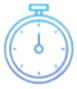
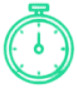
fix a lot styles and colors

diff --git a/src/scss/contacts.scss b/src/scss/contacts.scss
@@ -1,113 +1,144 @@
-    .mainpage__contacts-bgwrapper {
-        background-image: linear-gradient(to bottom, #282828, rgb(26, 43, 39))
+.mainpage__contacts-bgwrapper {
+    background-image: linear-gradient(to bottom, #282828, rgb(26, 43, 39));
+}
+
+.mainpage__contacts-title {
+    text-align: center;
+    margin: 0px auto;
+    color: $green;
+    font-family: $font-family;
+    font-size: 42px;
+    font-weight: 600;
+    padding: 20px;
+}
+
+.mainpage__contacts {
+    width: 100%;
+    max-width: 1400px;
+    margin: 0 auto;
+    margin-bottom: 100px;
+    display: flex;
+    flex-direction: row;
+    flex-wrap: wrap;
+    justify-content: space-between;
+}
+
+.mainpage__contacts-text {
+    color: white;
+    font-family: $font-family;
+    font-size: 18px;
+    font-weight: 200;
+}
+
+.mainpage__contacts-text-title {
+    color: white;
+    font-family: $font-family;
+    font-size: 48px;
+    font-weight: 200;
+    text-align: left;
+}
+
+.mainpage__contacts-text-subtitle {
+    color: white;
+    font-family: $font-family;
+    font-size: 36px;
+    font-weight: 200;
+}
+
+.mainpage__contacts-inputs {
+    & input {
+        display: block;
+        margin-top: 30px;
     }
-    
-    .mainpage__contacts-title {
-        text-align: center;
-        margin: 0px auto;
-        color: $green;
-        font-family: $font-family;
-        font-size: 36px;
-        font-weight: 300;
-        padding: 20px;
-    }
-    
-    .mainpage__contacts {
-        width: 100%;
-        max-width: 1400px;
-        margin: 0 auto;
-        margin-bottom: 100px;
-        display: flex;
-        flex-direction: row;
-        flex-wrap: wrap;
-        justify-content: space-between;
-    }
-    
-    .mainpage__contacts-text {
-        color: white;
-        font-family: $font-family;
-        font-size: 18px;
-        font-weight: 200;
-    }
-    
-    .mainpage__contacts-text-title {
-        color: white;
-        font-family: $font-family;
-        font-size: 48px;
-        font-weight: 200;
-        text-align: left;
-    }
-    
-    .mainpage__contacts-text-subtitle {
-        color: white;
-        font-family: $font-family;
-        font-size: 36px;
-        font-weight: 200;
-    }
-    
-    .mainpage__contacts-inputs {
-        & input {
-            display: block;
-        }
-    }
-    
-    .form-field {
-        height: 46px;
-        padding: 0 16px;
-        border: 2px solid #ddd;
-        border-radius: 4px;
-        font-family: 'Julius Sans One', sans-serif;
-        color: $black;
-        outline: 0;
-        transition: .2s;
-        margin-top: 60px;
-        margin-bottom: 60px;
-        width: 218px;
-    }
-    
-    .form-field:focus {
-        border-color: rgba($color: $black, $alpha: 0.7)
-    }
-    
-    .contacts__tel {
+}
+
+.form-field {
+    height: 46px;
+    padding: 0 16px;
+    border: 2px solid #ddd;
+    border-radius: 4px;
+    font-family: "Julius Sans One", sans-serif;
+    color: $black;
+    outline: 0;
+    transition: 0.2s;
+    margin-top: 60px;
+    margin-bottom: 60px;
+    width: 218px;
+}
+
+.form-field:focus {
+    border-color: rgba($color: $black, $alpha: 0.7);
+}
+
+.contacts__tel {
+    text-decoration: none;
+    color: $green;
+    padding-bottom: 20px;
+    width: 100%;
+    &:hover {
         text-decoration: none;
         color: white;
-        margin-bottom: 15px;
-        &:hover {
-            text-decoration: none;
-            color: white;
-        }
     }
-    
-    .terms {
-        display: flex;
-        justify-content: space-between;
-        margin-top: 15px;
-        & input {
-            margin-top: 21px;
-        }
+}
+
+.terms {
+    display: flex;
+    justify-content: space-between;
+    margin-top: 15px;
+    & input {
+        margin-top: 21px;
     }
-    
-    #sendNew:disabled {
-        cursor: not-allowed;
-        color: rgb(199, 199, 199);
-        background: rgb(209, 209, 209);
-        opacity: 0.3;
+}
+
+#sendNew {
+    margin-top: 20px;
+}
+
+#sendNew:disabled {
+    cursor: not-allowed;
+    color: rgb(199, 199, 199);
+    background: rgb(209, 209, 209);
+    opacity: 0.3;
+}
+
+.private-policy {
+    border: none;
+    width: 100%;
+    padding: 10px;
+    max-width: 250px;
+    font-family: Raleway;
+    font-weight: 200;
+    font-size: 12px;
+    line-height: unset;
+    text-decoration: none;
+    color: rgb(247, 247, 247);
+    &:hover {
+        border-top: unset;
+        border-bottom: unset;
     }
-    
-    .private-policy {
-        border: none;
-        width: 100%;
-        padding: 10px;
-        max-width: 250px;
-        font-family: Raleway;
-        font-weight: 200;
-        font-size: 12px;
-        line-height: unset;
-        text-decoration: none;
-        color: rgb(247, 247, 247);
-        &:hover {
-            border-top: unset;
-            border-bottom: unset;
-        }
-    }
+}
+
+[type="checkbox"]:not(:checked),
+[type="checkbox"]:checked {
+    position: unset !important;
+    left: unset !important;
+}
+
+.mainpage__contacts-inputs input {
+    display: block;
+    margin-top: 30px;
+}
+
+input[type="text"],
+input[type="password"],
+input[type="email"],
+input[type="url"],
+input[type="time"],
+input[type="date"],
+input[type="datetime-local"],
+input[type="tel"],
+input[type="number"],
+input[type="search"],
+textarea.materialize-textarea {
+    border-bottom: 2px solid $green !important;
+}

diff --git a/src/index.html b/src/index.html
@@ -31,8 +31,10 @@
     <script src="src\jquery-1.12.4.min.js"></script>
     <script src="src/jquery.malihu.PageScroll2id.min.js"></script>
     <script src="https://code.jquery.com/jquery-3.6.0.min.js" integrity="sha256-/xUj+3OJU5yExlq6GSYGSHk7tPXikynS7ogEvDej/m4=" crossorigin="anonymous"></script>
+    <script src="https://cdnjs.cloudflare.com/ajax/libs/materialize/0.96.1/js/materialize.min.js"></script>
     <link rel="stylesheet" href="../src/css/animate.min.css">
     <link rel="stylesheet" href="https://cdnjs.cloudflare.com/ajax/libs/twitter-bootstrap/4.0.0-beta.2/css/bootstrap.css">
+    <link rel="stylesheet" href="https://cdnjs.cloudflare.com/ajax/libs/materialize/0.96.1/css/materialize.min.css">
     <link rel="stylesheet" href="https://maxcdn.bootstrapcdn.com/bootstrap/4.0.0/css/bootstrap.min.css" integrity="sha384-Gn5384xqQ1aoWXA+058RXPxPg6fy4IWvTNh0E263XmFcJlSAwiGgFAW/dAiS6JXm" crossorigin="anonymous">
     <script src="src/js/jquery.malihu.PageScroll2id.min.js"></script>
     <script src="../src/js/bootstrap.min.js"></script>
@@ -106,7 +108,6 @@
                 <div class="mainpage__mainimg animate__animated animate__backInLeft">
                     <img src="src/img/mainpageimg.png">
                 </div>
-
             </main>
             <div class="mainpage__secondsection">
                 <div class="mainpage__secondsection-item">
@@ -218,8 +219,9 @@
                     <h2 class="mainpage__contacts-text-subtitle wow animate__animated animate__fadeInLeft"> Остались вопросы? Напишите нам!</h2>
                     <p class=" wow animate__animated animate__fadeInLeft">Осенний бульвар, 12к6с1</p>
                     <p class=" wow animate__animated animate__fadeInLeft">Ежедневно : с 10-00 до 21-00</p>
-                    <a href="tel:+79685215596" class="contacts__tel wow animate__animated animate__fadeInLeft">+7 (977) 918 33 91</a>
                     <p class=" wow animate__animated animate__fadeInLeft">tochkabyta@yandex.ru</p>
+                    <a href="tel:+79685215596" class="contacts__tel wow animate__animated animate__fadeInLeft">+7 (977) 918 33 91</a>
+
                 </div>
                 <div class="mainpage__contacts-inputs">
                     <form action="https://formspree.io/f/xjvjwoqe" method="POST">

diff --git a/src/scss/process.scss b/src/scss/process.scss
@@ -13,7 +13,7 @@
 .mainpage__process-title {
     text-align: center;
     margin-bottom: 50px;
-    color: white;
+    color: $green;
     font-family: $font-family;
     font-size: 42px;
     font-weight: 600;
@@ -62,7 +62,7 @@
     font-family: $font-family;
     font-size: 72px;
     position: absolute;
-    background: linear-gradient(rgba(138, 160, 211, 1), rgba(159, 222, 255, 1));
+    background: linear-gradient(rgb(72, 207, 162), rgba(159, 222, 255, 1));
     -webkit-background-clip: text;
     -webkit-text-fill-color: transparent;
     top: 20%;

diff --git a/src/scss/reviews.scss b/src/scss/reviews.scss
@@ -8,10 +8,10 @@
 }
 
 .mainpage__reviews-title {
-    color: white;
+    color: $green;
     font-family: $font-family;
-    font-size: 36px;
-    font-weight: 300;
+    font-size: 42px;
+    font-weight: 600;
     text-align: center;
     margin: 1.67em;
 }
@@ -92,6 +92,7 @@
     &:hover {
         cursor: pointer;
         color: black;
+        text-decoration: none;
     }
 }
 

diff --git a/src/scss/services.scss b/src/scss/services.scss
@@ -14,7 +14,7 @@
     text-align: center;
     margin: 0 auto;
     margin-bottom: 100px;
-    color: white;
+    color: $green;
     font-family: $font-family;
     font-size: 42px;
     font-weight: 600;
